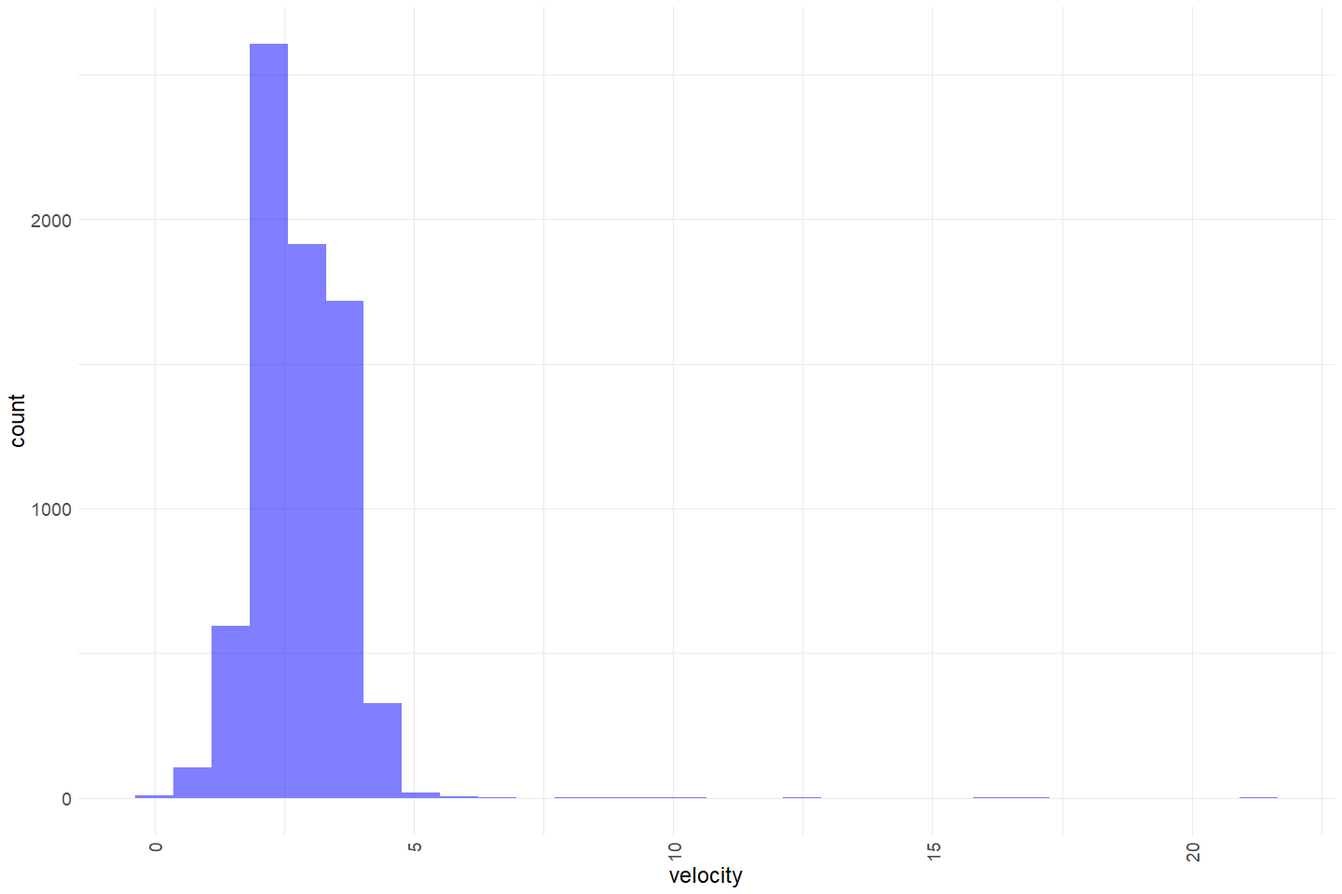
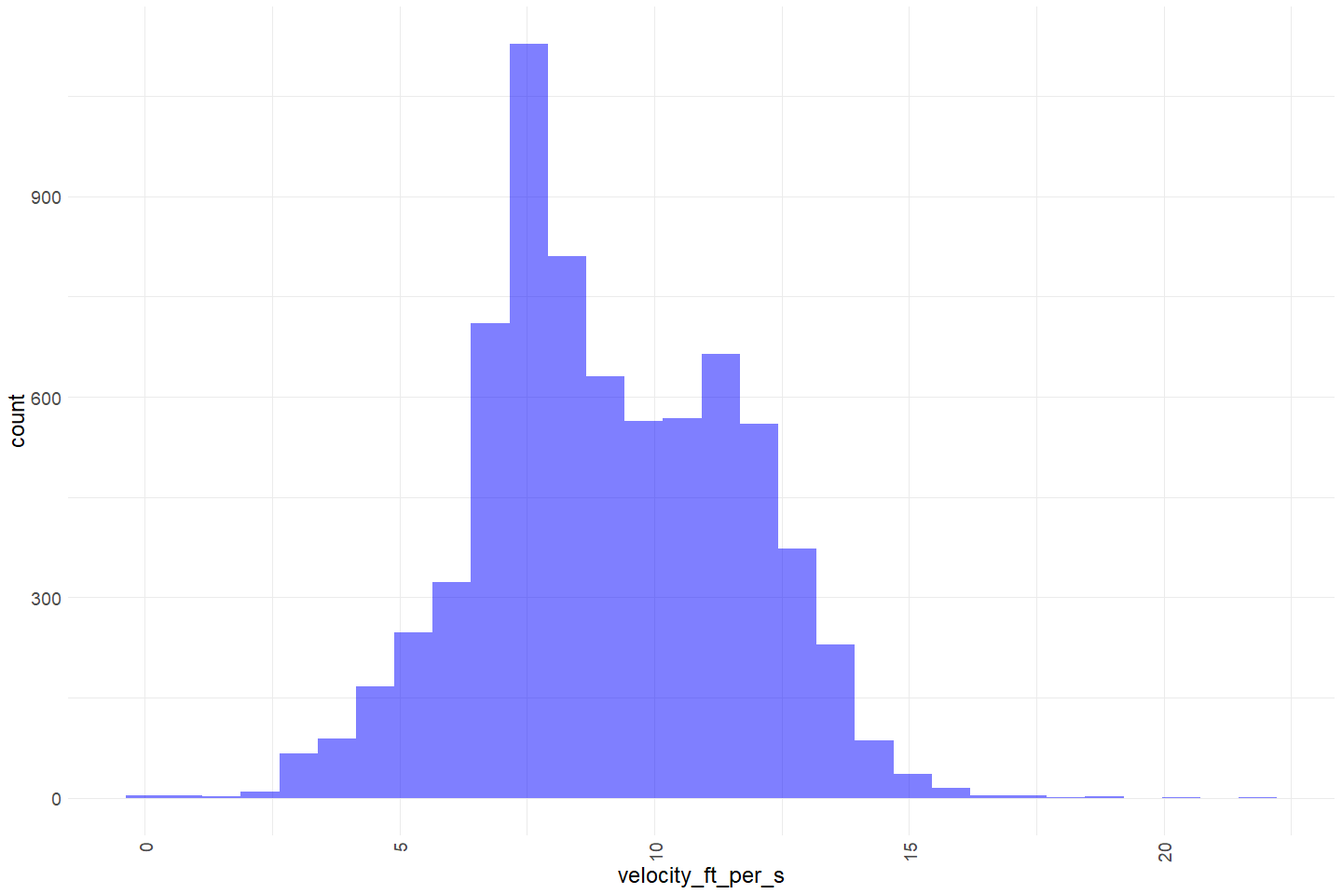
add next steps to markdown

diff --git a/scripts/rst/clear-creek/clear_creek_rst_environmental.md b/scripts/rst/clear-creek/clear_creek_rst_environmental.md
@@ -251,13 +251,14 @@ raw_rst_environmental <- bind_rows(raw_environmental_upper_1, raw_environmental_
 cleaner_rst_environmental <- raw_rst_environmental %>%
   janitor::clean_names() %>%
   rename() %>%
-  mutate(trap_start_date = as.Date(trap_start_date),
+  mutate(velocity_ft_per_s = velocity *3.281,
+         trap_start_date = as.Date(trap_start_date),
          trap_start_time = hms::as_hms(trap_start_time),
          sample_date = as.Date(sample_date),
          sample_time = hms::as_hms(sample_time)) %>%
   select(-user_name, -user_name2,
           -sample_weight, # remove sample weight because it is defined to be the same as cone) %>%
-         -report_baileys_eff) %>% # remove report baileys eff all NA
+         -report_baileys_eff, -velocity) %>% # remove report baileys eff all NA
   glimpse
 ```
 
@@ -273,7 +274,6 @@ cleaner_rst_environmental <- raw_rst_environmental %>%
     ## $ flow_start_meter    <dbl> 258000, 275000, 294000, 864000, 904000, 947400, 98~
     ## $ flow_end_meter      <dbl> 269659, 286594, 305055, 895943, 928917, 979885, 28~
     ## $ flow_set_time       <dbl> 303, 300, 302, 798, 720, 1080, 385, 300, 300, 540,~
-    ## $ velocity            <dbl> 3.37, 3.38, 3.20, 3.50, 3.03, 2.63, 3.37, 3.32, 3.~
     ## $ turbidity           <dbl> 1.5, 0.8, 0.8, 1.1, 0.7, 0.9, 0.6, 0.9, 1.0, 0.7, ~
     ## $ cone                <dbl> 1, 1, 1, 1, 1, 1, 1, 1, 1, 1, 1, 1, 1, 1, 1, 1, 1,~
     ## $ weather_code        <chr> "CLR", "CLR", "CLR", "CLR", "CLR", "CLR", "CLR", "~
@@ -298,6 +298,7 @@ cleaner_rst_environmental <- raw_rst_environmental %>%
     ## $ start_counter       <dbl> NA, NA, NA, NA, NA, NA, NA, NA, NA, NA, NA, NA, NA~
     ## $ trap_fishing        <chr> NA, NA, NA, NA, NA, NA, NA, NA, NA, NA, NA, NA, NA~
     ## $ partial_sample      <chr> NA, NA, NA, NA, NA, NA, NA, NA, NA, NA, NA, NA, NA~
+    ## $ velocity_ft_per_s   <dbl> 11.05697, 11.08978, 10.49920, 11.48350, 9.94143, 8~
 
 ## Data Dictionary
 
@@ -317,10 +318,10 @@ data_dictionary <- tibble(variables = colnames(cleaner_rst_environmental),
                                           "Sample date",
                                           "Sample time",
                                           "Number on the cone revolution counter at SampleDate and SampleTime",
-                                          "The read out number on the mechanical counter of the flow meter at the start and end of the velocity test",
-                                          "The read out number on the mechanical counter of the flow meter at the start and end of the velocity test",
+                                          "The read out number on the mechanical counter of the flow meter at the start and end of the velocity",
+                                          "The read out number on the mechanical counter of the flow meter at the start and end of the velocity",
                                           "How long the General Oceanics mechanical flow meter was in the water taking a reading, used to calculate water velocity in front of the cone",
-                                          "Calculated water velocity in front of the cone using a General Oceanics mechanical flow meter (Oceanic ® Model 2030) = ( (Flowmeter end - flow meter begin)/time in seconds)*.0875",
+                                          "Calculated water velocityin front of the cone using a General Oceanics mechanical flow meter (Oceanic ® Model 2030) = ( (Flowmeter end - flow meter begin)/time in seconds)*.0875 (multiplied by 3.281 to convert from m/s to ft/s)",
                                           "Turbidity result from a grab sample taken at the trap on the SampleDate and SampleTime",
                                           "Was the trap fished at cone full-cone (1.0) or half-cone (0.5) setting",
                                           "A code for the weather conditions on the SampleDate and SampleTime. See VariableCodesLookUp table",
@@ -353,43 +354,43 @@ data_dictionary <- tibble(variables = colnames(cleaner_rst_environmental),
 knitr::kable(data_dictionary)
 ```
 
-| variables             | description                                                                                                                                                                         | percent\_na |
-|:----------------------|:------------------------------------------------------------------------------------------------------------------------------------------------------------------------------------|------------:|
-| station\_code         | The station code, two stations Lower Clear Creek (LCC) and Upper Clear Creek (UCC)                                                                                                  |           0 |
-| sample\_id            | The calendar year Julian date and year code for that \~24-h sample period (ddd\_yy)                                                                                                 |           0 |
-| trap\_start\_date     | Trap start date                                                                                                                                                                     |           2 |
-| trap\_start\_time     | Trap start time                                                                                                                                                                     |           2 |
-| sample\_date          | Sample date                                                                                                                                                                         |           0 |
-| sample\_time          | Sample time                                                                                                                                                                         |           0 |
-| counter               | Number on the cone revolution counter at SampleDate and SampleTime                                                                                                                  |           4 |
-| flow\_start\_meter    | The read out number on the mechanical counter of the flow meter at the start and end of the velocity test                                                                           |           4 |
-| flow\_end\_meter      | The read out number on the mechanical counter of the flow meter at the start and end of the velocity test                                                                           |           4 |
-| flow\_set\_time       | How long the General Oceanics mechanical flow meter was in the water taking a reading, used to calculate water velocity in front of the cone                                        |           4 |
-| velocity              | Calculated water velocity in front of the cone using a General Oceanics mechanical flow meter (Oceanic ® Model 2030) = ( (Flowmeter end - flow meter begin)/time in seconds)\*.0875 |           4 |
-| turbidity             | Turbidity result from a grab sample taken at the trap on the SampleDate and SampleTime                                                                                              |           3 |
-| cone                  | Was the trap fished at cone full-cone (1.0) or half-cone (0.5) setting                                                                                                              |           2 |
-| weather\_code         | A code for the weather conditions on the SampleDate and SampleTime. See VariableCodesLookUp table                                                                                   |           2 |
-| lunar\_phase          | Stage of the Moon on the SampleDate and SampleTime                                                                                                                                  |           2 |
-| river\_left\_depth    | River depth (ft) from inside of the river left (facing down stream) pontoon off crossbeam \#2 (cone crossbeam)                                                                      |          36 |
-| river\_center\_depth  | River depth (ft) from directly in the center of cone off crossbeam \#2 (cone crossbeam)                                                                                             |          36 |
-| river\_right\_depth   | River depth (ft) from inside of the river right (facing down stream) pontoon off crossbeam \#2 (cone crossbeam)                                                                     |          36 |
-| trap\_sample\_type    | The type of sample regime                                                                                                                                                           |           2 |
-| habitat               | The type of flow habitat the trap fished in                                                                                                                                         |           2 |
-| thalweg               | Was trap fishing in the thalweg at SampleDate and SampleTime                                                                                                                        |           2 |
-| diel                  | The time of day relative to the sun                                                                                                                                                 |          95 |
-| depth\_adjust         | The depth of the bottom of the cone (measured in Inches) Depth in relation to the cone (not to the surface of the water)                                                            |           4 |
-| debris\_type          | The type of debris found in the live-box                                                                                                                                            |           2 |
-| debris\_tubs          | The number of 10-g tubs of debris removed from the trap during the sample period (volumetrically)                                                                                   |           2 |
-| avg\_time\_per\_rev   | The average time per cone rotation (average of three rotations) - units are seconds                                                                                                 |           3 |
-| fish\_properly        | Was there a problem with the trap at SampleDate and SampleTime                                                                                                                      |           6 |
-| sub\_week             | If sample week has more than one efficiency, which part of week is sample from                                                                                                      |           0 |
-| baileys\_eff          | Trap Efficiency = (Recaptured+1)/(Released+1); used to calculate daily passage                                                                                                      |           0 |
-| num\_released         | Number fish released                                                                                                                                                                |           2 |
-| trap\_comments        | Trap comments                                                                                                                                                                       |          78 |
-| gear\_condition\_code | A code for the condition of the trap on the SampleDate and SampleTime                                                                                                               |          95 |
-| start\_counter        | Beginning cone revolution counter number, usually zero                                                                                                                              |          94 |
-| trap\_fishing         | Trap fished or not                                                                                                                                                                  |          94 |
-| partial\_sample       | Partial sample                                                                                                                                                                      |          94 |
+| variables             | description                                                                                                                                                                                                                          | percent\_na |
+|:----------------------|:-------------------------------------------------------------------------------------------------------------------------------------------------------------------------------------------------------------------------------------|------------:|
+| station\_code         | The station code, two stations Lower Clear Creek (LCC) and Upper Clear Creek (UCC)                                                                                                                                                   |           0 |
+| sample\_id            | The calendar year Julian date and year code for that \~24-h sample period (ddd\_yy)                                                                                                                                                  |           0 |
+| trap\_start\_date     | Trap start date                                                                                                                                                                                                                      |           2 |
+| trap\_start\_time     | Trap start time                                                                                                                                                                                                                      |           2 |
+| sample\_date          | Sample date                                                                                                                                                                                                                          |           0 |
+| sample\_time          | Sample time                                                                                                                                                                                                                          |           0 |
+| counter               | Number on the cone revolution counter at SampleDate and SampleTime                                                                                                                                                                   |           4 |
+| flow\_start\_meter    | The read out number on the mechanical counter of the flow meter at the start and end of the velocity                                                                                                                                 |           4 |
+| flow\_end\_meter      | The read out number on the mechanical counter of the flow meter at the start and end of the velocity                                                                                                                                 |           4 |
+| flow\_set\_time       | How long the General Oceanics mechanical flow meter was in the water taking a reading, used to calculate water velocity in front of the cone                                                                                         |           4 |
+| turbidity             | Calculated water velocityin front of the cone using a General Oceanics mechanical flow meter (Oceanic ® Model 2030) = ( (Flowmeter end - flow meter begin)/time in seconds)\*.0875 (multiplied by 3.281 to convert from m/s to ft/s) |           3 |
+| cone                  | Turbidity result from a grab sample taken at the trap on the SampleDate and SampleTime                                                                                                                                               |           2 |
+| weather\_code         | Was the trap fished at cone full-cone (1.0) or half-cone (0.5) setting                                                                                                                                                               |           2 |
+| lunar\_phase          | A code for the weather conditions on the SampleDate and SampleTime. See VariableCodesLookUp table                                                                                                                                    |           2 |
+| river\_left\_depth    | Stage of the Moon on the SampleDate and SampleTime                                                                                                                                                                                   |          36 |
+| river\_center\_depth  | River depth (ft) from inside of the river left (facing down stream) pontoon off crossbeam \#2 (cone crossbeam)                                                                                                                       |          36 |
+| river\_right\_depth   | River depth (ft) from directly in the center of cone off crossbeam \#2 (cone crossbeam)                                                                                                                                              |          36 |
+| trap\_sample\_type    | River depth (ft) from inside of the river right (facing down stream) pontoon off crossbeam \#2 (cone crossbeam)                                                                                                                      |           2 |
+| habitat               | The type of sample regime                                                                                                                                                                                                            |           2 |
+| thalweg               | The type of flow habitat the trap fished in                                                                                                                                                                                          |           2 |
+| diel                  | Was trap fishing in the thalweg at SampleDate and SampleTime                                                                                                                                                                         |          95 |
+| depth\_adjust         | The time of day relative to the sun                                                                                                                                                                                                  |           4 |
+| debris\_type          | The depth of the bottom of the cone (measured in Inches) Depth in relation to the cone (not to the surface of the water)                                                                                                             |           2 |
+| debris\_tubs          | The type of debris found in the live-box                                                                                                                                                                                             |           2 |
+| avg\_time\_per\_rev   | The number of 10-g tubs of debris removed from the trap during the sample period (volumetrically)                                                                                                                                    |           3 |
+| fish\_properly        | The average time per cone rotation (average of three rotations) - units are seconds                                                                                                                                                  |           6 |
+| sub\_week             | Was there a problem with the trap at SampleDate and SampleTime                                                                                                                                                                       |           0 |
+| baileys\_eff          | If sample week has more than one efficiency, which part of week is sample from                                                                                                                                                       |           0 |
+| num\_released         | Trap Efficiency = (Recaptured+1)/(Released+1); used to calculate daily passage                                                                                                                                                       |           2 |
+| trap\_comments        | Number fish released                                                                                                                                                                                                                 |          78 |
+| gear\_condition\_code | Trap comments                                                                                                                                                                                                                        |          95 |
+| start\_counter        | A code for the condition of the trap on the SampleDate and SampleTime                                                                                                                                                                |          94 |
+| trap\_fishing         | Beginning cone revolution counter number, usually zero                                                                                                                                                                               |          94 |
+| partial\_sample       | Trap fished or not                                                                                                                                                                                                                   |          94 |
+| velocity\_ft\_per\_s  | Partial sample                                                                                                                                                                                                                       |           4 |
 
 ## Explore Numeric Variables:
 
@@ -398,11 +399,11 @@ cleaner_rst_environmental %>% select_if(is.numeric) %>% colnames
 ```
 
     ##  [1] "counter"            "flow_start_meter"   "flow_end_meter"    
-    ##  [4] "flow_set_time"      "velocity"           "turbidity"         
-    ##  [7] "cone"               "river_left_depth"   "river_center_depth"
-    ## [10] "river_right_depth"  "depth_adjust"       "debris_tubs"       
-    ## [13] "avg_time_per_rev"   "baileys_eff"        "num_released"      
-    ## [16] "start_counter"
+    ##  [4] "flow_set_time"      "turbidity"          "cone"              
+    ##  [7] "river_left_depth"   "river_center_depth" "river_right_depth" 
+    ## [10] "depth_adjust"       "debris_tubs"        "avg_time_per_rev"  
+    ## [13] "baileys_eff"        "num_released"       "start_counter"     
+    ## [16] "velocity_ft_per_s"
 
 ### Variable: `counter`
 
@@ -452,7 +453,7 @@ summary(cleaner_rst_environmental$counter)
 ### Variables: `flow_start_meter`, `flow_end_meter`
 
 The read out number on the mechanical counter of the flow meter at the
-start and end of the velocity test
+start and end of the velocity
 
 **Plotting distribution of flow start meter and flow end meter**
 
@@ -534,19 +535,19 @@ summary(cleaner_rst_environmental$flow_set_time)
 
 -   3.6 % of values in the `flow_set_time` column are NA.
 
-### Variable: `velocity`
+### Variable: `velocity_ft_per_s`
 
-Calculated water velocity in front of the cone using a General Oceanics
-mechanical flow meter (Oceanic ® Model 2030) = ( (Flowmeter end - flow
-meter begin)/time in seconds)\*.0875
+Calculated water velocity\_ft\_per\_s in front of the cone using a
+General Oceanics mechanical flow meter (Oceanic ® Model 2030) = (
+(Flowmeter end - flow meter begin)/time in seconds)\*.0875
 
-**Plotting distribution of velocity**
+**Plotting distribution of velocity\_ft\_per\_s**
 
 ``` r
 cleaner_rst_environmental %>% 
-  filter(velocity < 25) %>% # filter out values greater than 25
+  filter(velocity_ft_per_s < 25) %>% # filter out values greater than 25
   ggplot() +
-  geom_histogram(aes(x = velocity), fill = "blue", alpha = .5) +
+  geom_histogram(aes(x = velocity_ft_per_s), fill = "blue", alpha = .5) +
   theme_minimal() + 
   theme(text = element_text(size = 18),
         axis.text.x = element_text(angle = 90, vjust = 0.5, hjust=1)) 
@@ -562,7 +563,7 @@ cleaner_rst_environmental %>%
          fake_year = 2000,
          fake_year = ifelse(month(sample_date) %in% 10:12, fake_year - 1, fake_year),
          fake_date = ymd(paste(fake_year, month(sample_date), day(sample_date)))) %>%
-  ggplot(aes(x = fake_date, y = velocity)) +
+  ggplot(aes(x = fake_date, y = velocity_ft_per_s)) +
   scale_x_date(date_breaks = "3 month", date_labels = "%b") +
   geom_line(size = 0.5) +
   xlab("") +
@@ -573,24 +574,25 @@ cleaner_rst_environmental %>%
 ![](clear_creek_rst_environmental_files/figure-gfm/unnamed-chunk-13-1.png)<!-- -->
 
 A lot of outliers are shown. These are clear because they create a large
-spike and make the other velocity measurements difficult to see.
+spike and make the other velocity\_ft\_per\_s measurements difficult to
+see.
 
-**Numeric Summary of velocity**
+**Numeric Summary of velocity\_ft\_per\_s**
 
 ``` r
-summary(cleaner_rst_environmental$velocity)
+summary(cleaner_rst_environmental$velocity_ft_per_s)
 ```
 
-    ##    Min. 1st Qu.  Median    Mean 3rd Qu.    Max.    NA's 
-    ##   0.030   2.230   2.670   2.902   3.380 280.760     278
+    ##     Min.  1st Qu.   Median     Mean  3rd Qu.     Max.     NA's 
+    ##   0.0984   7.3166   8.7603   9.5219  11.0898 921.1736      278
 
-A velocity of 280 seems out of the range of possibilities. It seems like
-every velocity greater than 7 is probably a mistake that should be
-scaled down or filtered out.
+A velocity\_ft\_per\_s of 750 seems out of the range of possibilities.
+It seems like every velocity\_ft\_per\_s greater than 7 is probably a
+mistake that should be scaled down or filtered out.
 
 **NA and Unknown Values**
 
--   3.7 % of values in the `velocity` column are NA.
+-   3.7 % of values in the `velocity_ft_per_s` column are NA.
 
 ### Variable: `turbidity`
 
@@ -1541,12 +1543,21 @@ table(cleaner_rst_environmental$partial_sample)
     an A. If it is split the days in the first substratum are A’s, the
     second are B’s, etc.  
 -   Outliers in some of the numeric variables:
-    -   Velocity (some outliers that need to be addressed)
+    -   velocity\_ft\_per\_s (some outliers that need to be addressed)
     -   Turbidity (some outliers that need to be addressed)
     -   Counter (some outliers that need to be addressed)
 -   There are a few variables that I am unsure of how they would be used
     (ex `depth_adjust`). Asking Mike and these may not be relevant to us
     and can be filtered out.
+
+## Next steps
+
+-   Need to figure out what RST data variables could be used. So far RST
+    environmental variables have been varied.Some variables such as
+    `diel` is only available for a this datasets and could be removed.
+    Other variable such as`avg_time_per_rev`, `baileys_eff`,
+    `flow_start_meter`, `flow_end_meter` needs to be standardized with
+    other RST environmental cone related variables.
 
 ## Save cleaned data back to google cloud
 
@@ -1566,7 +1577,6 @@ clear_rst_environmental <- cleaner_rst_environmental %>% glimpse()
     ## $ flow_start_meter    <dbl> 258000, 275000, 294000, 864000, 904000, 947400, 98~
     ## $ flow_end_meter      <dbl> 269659, 286594, 305055, 895943, 928917, 979885, 28~
     ## $ flow_set_time       <dbl> 303, 300, 302, 798, 720, 1080, 385, 300, 300, 540,~
-    ## $ velocity            <dbl> 3.37, 3.38, 3.20, 3.50, 3.03, 2.63, 3.37, 3.32, 3.~
     ## $ turbidity           <dbl> 1.5, 0.8, 0.8, 1.1, 0.7, 0.9, 0.6, 0.9, 1.0, 0.7, ~
     ## $ cone                <dbl> 1, 1, 1, 1, 1, 1, 1, 1, 1, 1, 1, 1, 1, 1, 1, 1, 1,~
     ## $ weather_code        <chr> "clear", "clear", "clear", "clear", "clear", "clea~
@@ -1591,6 +1601,7 @@ clear_rst_environmental <- cleaner_rst_environmental %>% glimpse()
     ## $ start_counter       <dbl> NA, NA, NA, NA, NA, NA, NA, NA, NA, NA, NA, NA, NA~
     ## $ trap_fishing        <lgl> NA, NA, NA, NA, NA, NA, NA, NA, NA, NA, NA, NA, NA~
     ## $ partial_sample      <lgl> NA, NA, NA, NA, NA, NA, NA, NA, NA, NA, NA, NA, NA~
+    ## $ velocity_ft_per_s   <dbl> 11.05697, 11.08978, 10.49920, 11.48350, 9.94143, 8~
 
 ``` r
 # Write to google cloud 

diff --git a/scripts/adult-upstream-passage-monitoring/feather-river/feather-hallprint-returns.md b/scripts/adult-upstream-passage-monitoring/feather-river/feather-hallprint-returns.md
@@ -530,6 +530,14 @@ cleaner_carcass_data$spring_green <- ifelse(cleaner_carcass_data$comments == "SP
     excel table. I choose to look at this sheet because it seemed the
     most useful but I am not sure it is the best information.
 
+### Next Steps
+
+-   Hallprint returns data has similar columns as some of the carcass
+    data so it might be more fitting to put it under there. Or hallprint
+    returns data and hallprint data could be its own entity due to how
+    different the data are. Also need to figure out which one of the
+    many excel data sheet under hallprint data is the most useful.
+
 ### Save cleaned data back to google cloud
 
 ``` r

diff --git a/scripts/adult-upstream-passage-monitoring/feather-river/feather-hallprint.md b/scripts/adult-upstream-passage-monitoring/feather-river/feather-hallprint.md
@@ -405,6 +405,13 @@ write_rds(feather_hallprint_acoustic_location, "../../../data/feather_hallprint_
 -   Each tag is a unique fish, this data may be more helpful as some
     estimate of fish count, add in a count column?
 
+### Next Steps
+
+-   Figure out how to use this dataset for adult upstream passage
+    estimate. The hallprint data is quite different from other upstream
+    passage data - need to figure out which excel sheet and which column
+    is the most useful.
+
 ### Save cleaned data back to google cloud
 
 ``` r

diff --git a/scripts/adult-upstream-passage-monitoring/battle-creek/battle_passage_trap_and_spawning_building_data_qc.md b/scripts/adult-upstream-passage-monitoring/battle-creek/battle_passage_trap_and_spawning_building_data_qc.md
@@ -642,6 +642,14 @@ unique(cleaner_passage_data$comments)[1:10]
 -   they have information on recaptures but there are more unique floy
     tag numbers than total fish recaptured.
 
+## Next Steps
+
+-   Decide which columns we should keep
+
+-   `mature`, `status`, `recapture`, `recapture_type`, and
+    `confidence_in_sex` are columns that do not seem to be consistent
+    with other upstream passage estimate datasets
+
 ## Save cleaned data back to google cloud
 
 ``` r

diff --git a/scripts/rst/clear-creek/clear_creek_passage_estimates_qc.md b/scripts/rst/clear-creek/clear_creek_passage_estimates_qc.md
@@ -387,6 +387,11 @@ table(cleaner_passage_estimate$location)
     review R script used to generate the passage estimates
 -   Additionally need to add other runs in if desired
 
+## Next Steps
+
+-   Compare passage estimate method (Provided in R file) with other RST
+    passage estimate methods
+
 ## Save cleaned data back to google cloud
 
 ``` r

diff --git a/scripts/rst/clear-creek/clear_creek_rst_catch.md b/scripts/rst/clear-creek/clear_creek_rst_catch.md
@@ -588,6 +588,11 @@ table(cleaner_rst_count$interpolated)
     assigned - 0 `fork_length` values mean fish was not measured. TODO
     Ask Mike
 
+## Next steps
+
+-   Once we decide which Race (run) measure to keep, we could visualize
+    the data based on Spring run.
+
 ## Save cleaned data back to google cloud
 
 ``` r

diff --git a/scripts/adult-upstream-passage-monitoring/battle-creek/battle_passage_estimates_qc.md b/scripts/adult-upstream-passage-monitoring/battle-creek/battle_passage_estimates_qc.md
@@ -548,6 +548,11 @@ table(cleaner_passage_estimates$adipose)
     these ones. The typical origin date is not mapping to the year given
     in the year column.
 
+## Next Steps
+
+-   Is it possible to get estimates of just spring run instead of all
+    runs
+
 ## Save cleaned data back to google cloud
 
 ``` r

diff --git a/scripts/adult-upstream-passage-monitoring/clear-creek/clear-creek-qc-checklist.md b/scripts/adult-upstream-passage-monitoring/clear-creek/clear-creek-qc-checklist.md
@@ -502,6 +502,10 @@ table(cleaner_video_data$passage_direction)
 
 -   0 % of values in the `passage_direction` column are NA.
 
+## Next Steps:
+
+-   Identify if these columns fit with upstream passage data schema
+
 ``` r
 clear_passage <- cleaner_video_data %>% 
   glimpse()

diff --git a/scripts/adult-upstream-passage-monitoring/battle-creek/battle_passage_video_data_qc.md b/scripts/adult-upstream-passage-monitoring/battle-creek/battle_passage_video_data_qc.md
@@ -350,6 +350,10 @@ table(cleaner_video_data$passage_direction)
 
 -   No info on viewing condition/outages/gaps in sampling
 
+## Next Steps
+
+-   Understand how this data fit in with passage monitoring data schema
+
 ## Save cleaned data back to google cloud
 
 ``` r
